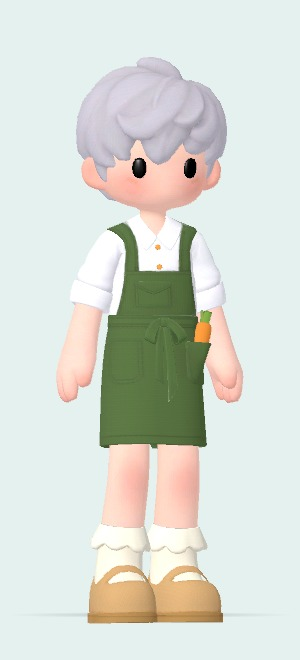
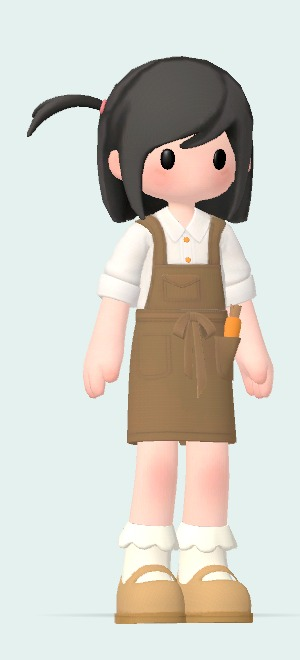
art(362): Hana look A card (black bob, brown apron) and resident clash review sheets

diff --git a/docs/design/resident-clash-362-2026-10-29/README.md b/docs/design/resident-clash-362-2026-10-29/README.md
@@ -1,0 +1,35 @@
+# SGODOT-362 · Resident look clashes (2026-10-29)
+
+Found by the 284 B5 resident walkthrough (Plane 284 comment 9b7c64ab): Sam, Lena and Nadia
+share hairhat41 (Nadia only recoloured), Lena, Nadia and Rafa all wear cloth1_1, and Hana's
+default hairhat0 reads as the player's starting look. Hana also shared cloth11 (green apron)
+with Ama, the tea-house keeper in the same room.
+
+The public parts (6 hair styles, 6 cloths) and the 48 generated keeper sets
+(`world.keeper_looks`) already use up the free style + cloth pairs, so slot changes alone
+cannot separate Sam, Lena and Rafa (`candidates-round1.png`, `candidates-round2.png`;
+looks in `looks-candidates.json`). Plan v1 (362 ba1dcbd1, `before-after-v1.png`), approved by
+the UI director (362 27ea8b86):
+
+1. **Stage 1, slots only (this PR):** Hana → `hairhat43_npc_black` + `cloth11_npc_mei` +
+   `shoes5` (look A, `looks-hana-a.json`). No keeper set wears style 43 + cloth11_npc_mei;
+   the part-id pair is unique (Lou wears the same hair with cloth1, in the card room).
+2. **Stage 2, small-prop batch (刘备, with 347 / 357):** texture-only npc_only parts —
+   Lena `hairhat51_npc_lena` (mustard rain-hat yellow, badge navy / white or removed),
+   Rafa `hairhat36_npc_rafa` (white skipper cap) + `cloth1_1_npc_rafa` (navy stripes,
+   horizontal if the same texture allows). Sam is unchanged; Nadia is SGODOT-347.
+   The Lena / Rafa "after" images in `before-after-v1.png` are 2D recolour previews, not
+   renders. With stage 2, `tests/p0/test_p0_outpost.gd:849` expects `tea_subtropical_0`
+   and the `outpost_npcs.json` note changes.
+
+## Stage 1 files
+
+- `assets/p0/art/residents/hana_card.jpg`, rebaked with look A on the shared portrait stage
+  (`tools/art/bake_resident_portraits.gd`, farm-dev 26416a20; avatar parts unchanged since).
+- `portrait_crops.json` `hana`: stamp [100,46,162,203], face [103,50,157,157]. The side tuft
+  of the 43 style falls outside the stamp and face, as on Theo's card.
+- `hana-rebake-check.png`: before / after, Ama · Hana · Lena of the tea house, stamp at
+  32×40 and ×3, profile face at 80.
+
+The `outpost_npcs.json` slots change comes from the resident programmer (苏烈) and merges
+with the farm-dev integration (card only: jpg + crops; the .import is unchanged).
